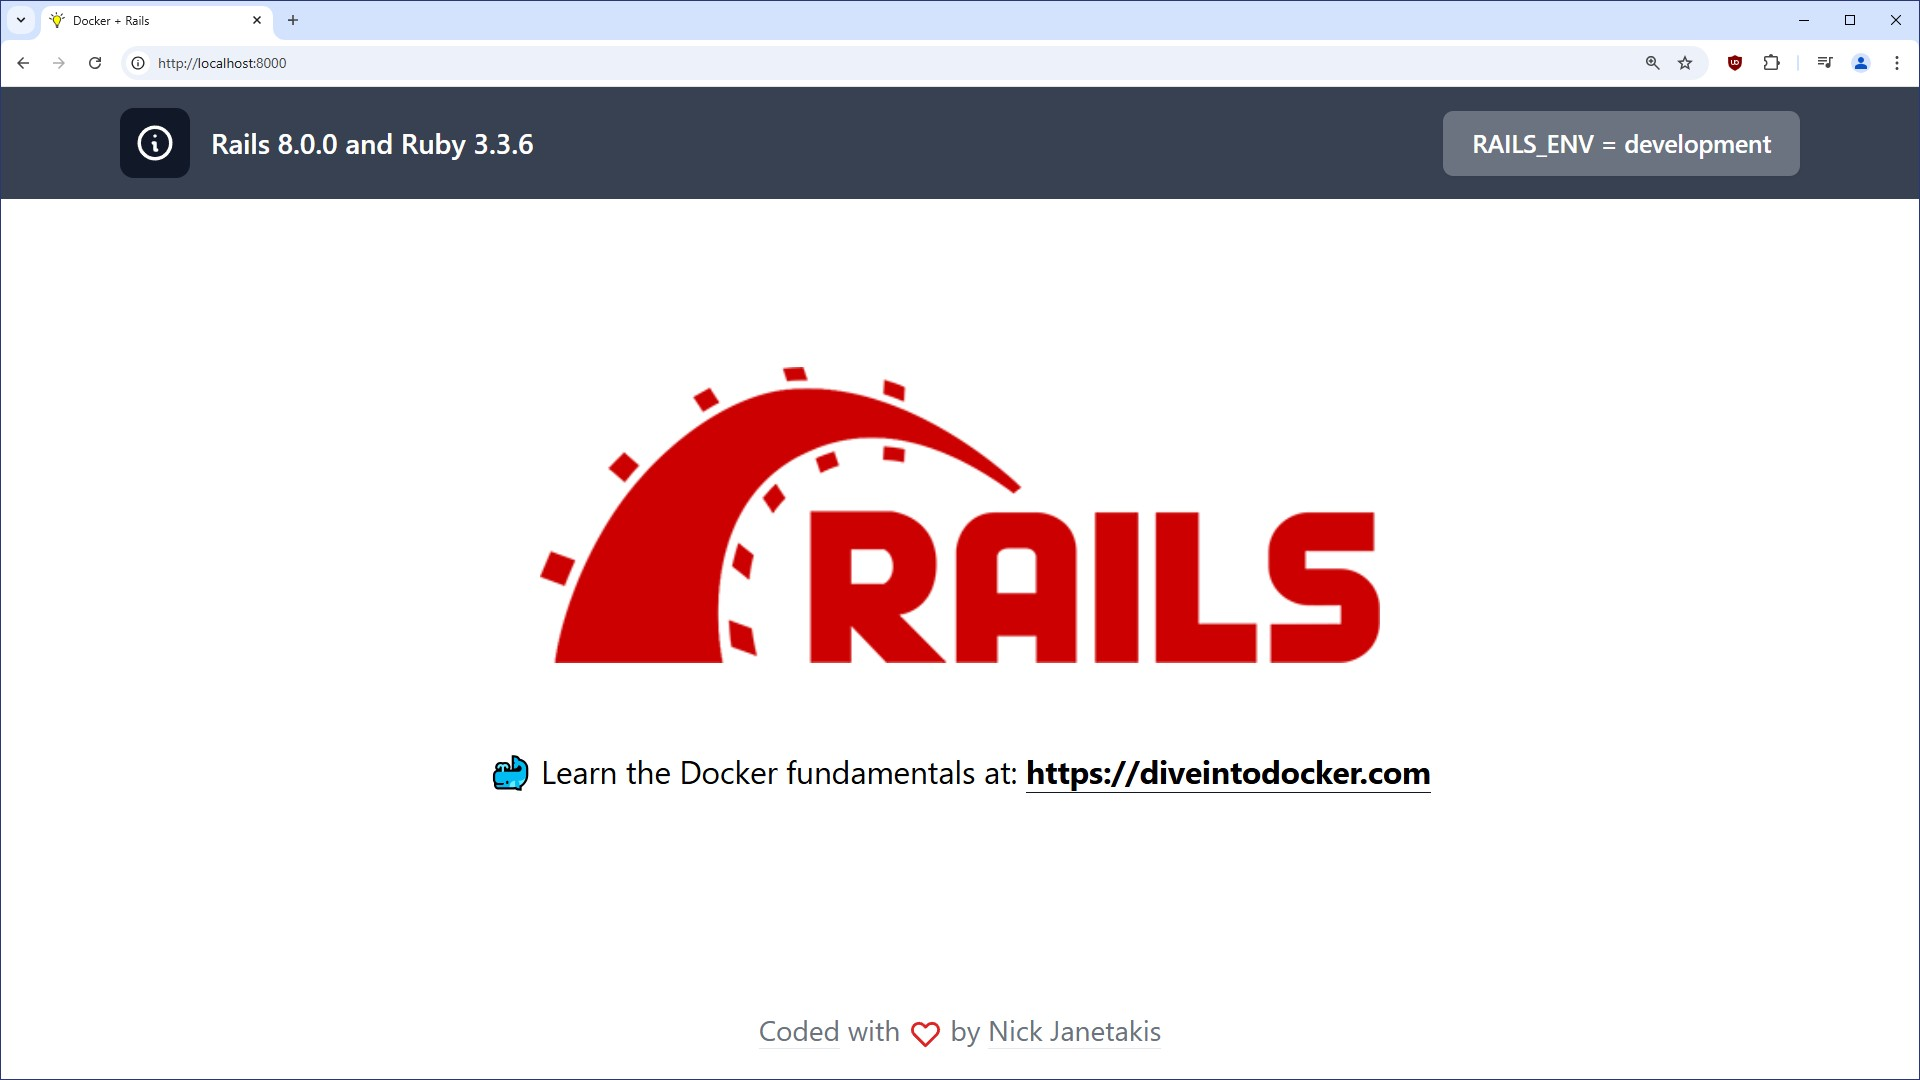
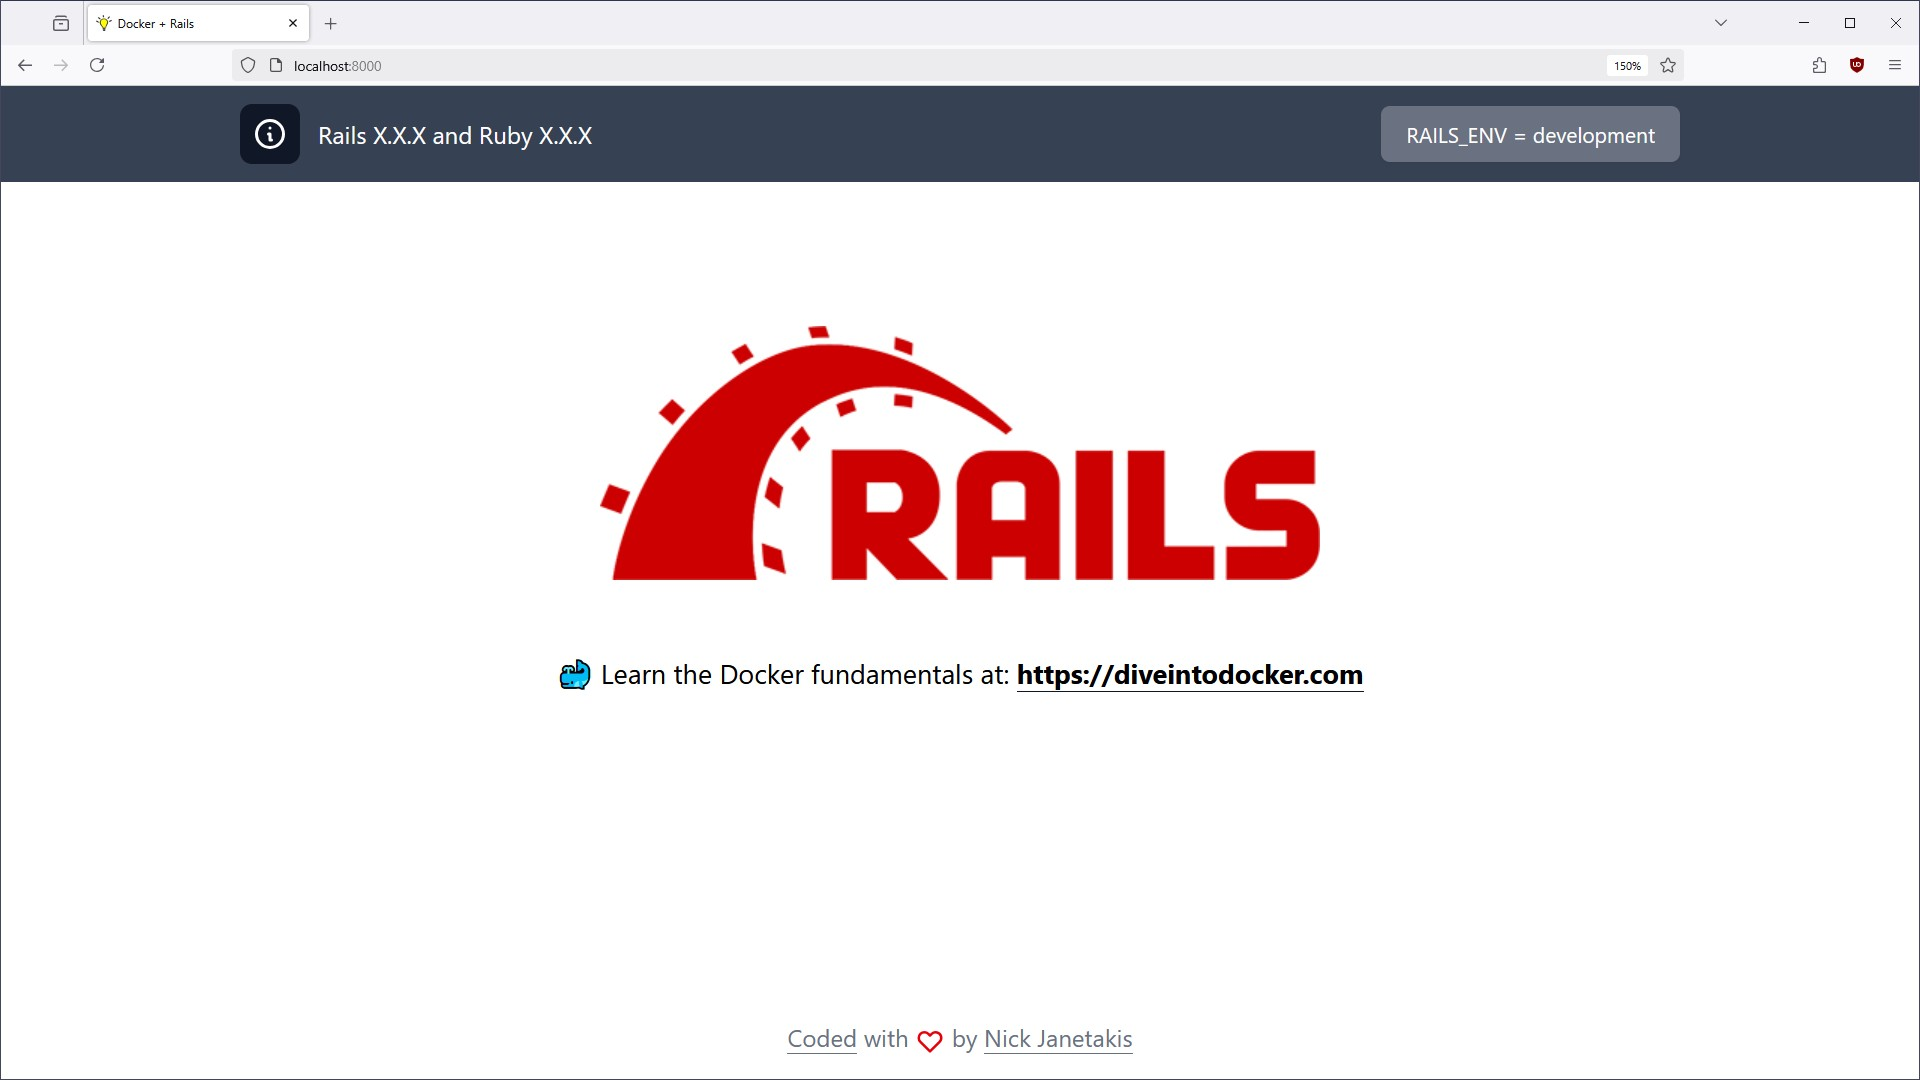
Update screenshot to use version placeholders

diff --git a/README.md b/README.md
@@ -14,8 +14,8 @@ practices](https://nickjanetakis.com/blog/best-practices-around-production-ready
 based on building and deploying dozens of assorted Dockerized web apps since
 late 2014.
 
-**This app is using Rails 8.0.2 and Ruby 3.4.2**. The screenshot doesn't get
-updated every time I bump the versions:
+**This app is using Rails 8.0.2 and Ruby 3.4.2**. The screenshot shows
+`X.X.X` since they get updated regularly:
 
 [![Screenshot](.github/docs/screenshot.jpg)](https://github.com/nickjj/docker-rails-example/blob/main/.github/docs/screenshot.jpg?raw=true)
 
